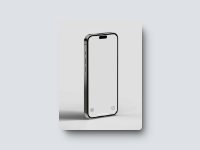
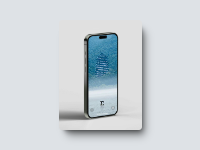
feat: 新增手机壁纸主题样式

Changed region(s): [[0.42, 0.2133, 0.6, 0.6133], [0.42, 0.64, 0.6, 0.8]]

diff --git a/src/pages/screenshot/_themes/index.js b/src/pages/screenshot/_themes/index.js
@@ -120,7 +120,8 @@ export function ThemeStyle(theme) {
       return [
         { name: 'default', title: '', thumail: '/screenshot/theme/wallPaper/style_default.png' },
         { name: 'handFemale', title: '', thumail: '/screenshot/theme/wallPaper/style_handFemale.png' },
-        { name: 'sideways', title: '', thumail: '/screenshot/theme/wallPaper/style_sideways.png' }
+        { name: 'sideways', title: '', thumail: '/screenshot/theme/wallPaper/style_sideways.png' },
+        { name: 'liedown', title: '', thumail: '/screenshot/theme/wallPaper/style_liedown.png' }
       ]
     default:
       return [];

diff --git a/src/pages/screenshot/_themes/style.module.scss b/src/pages/screenshot/_themes/style.module.scss
@@ -246,6 +246,10 @@
     transform: rotate(0deg) perspective(none) skewX(0deg) skewY(-5.8deg) rotateX(0deg) rotateY(0deg) rotateZ(0deg)
   }
 
+  &.liedown > div {
+    transform: rotate(-42.5deg) perspective(1000px) skewX(0deg) skewY(24.5deg) rotateX(3deg) rotateY(4deg) rotateZ(0deg);
+  }
+
   .topBar {
     position: absolute;
     top: 2%;

diff --git a/src/pages/screenshot/style.module.scss b/src/pages/screenshot/style.module.scss
@@ -354,6 +354,10 @@
     &.sideways {
       --drop-padding: 17.6% 28.05% 16.2% 34.05% !important;
     }
+
+    &.liedown {
+      --drop-padding: 26.2% 36.05% 25.9% 39.05% !important;
+    }
   }
 
   
